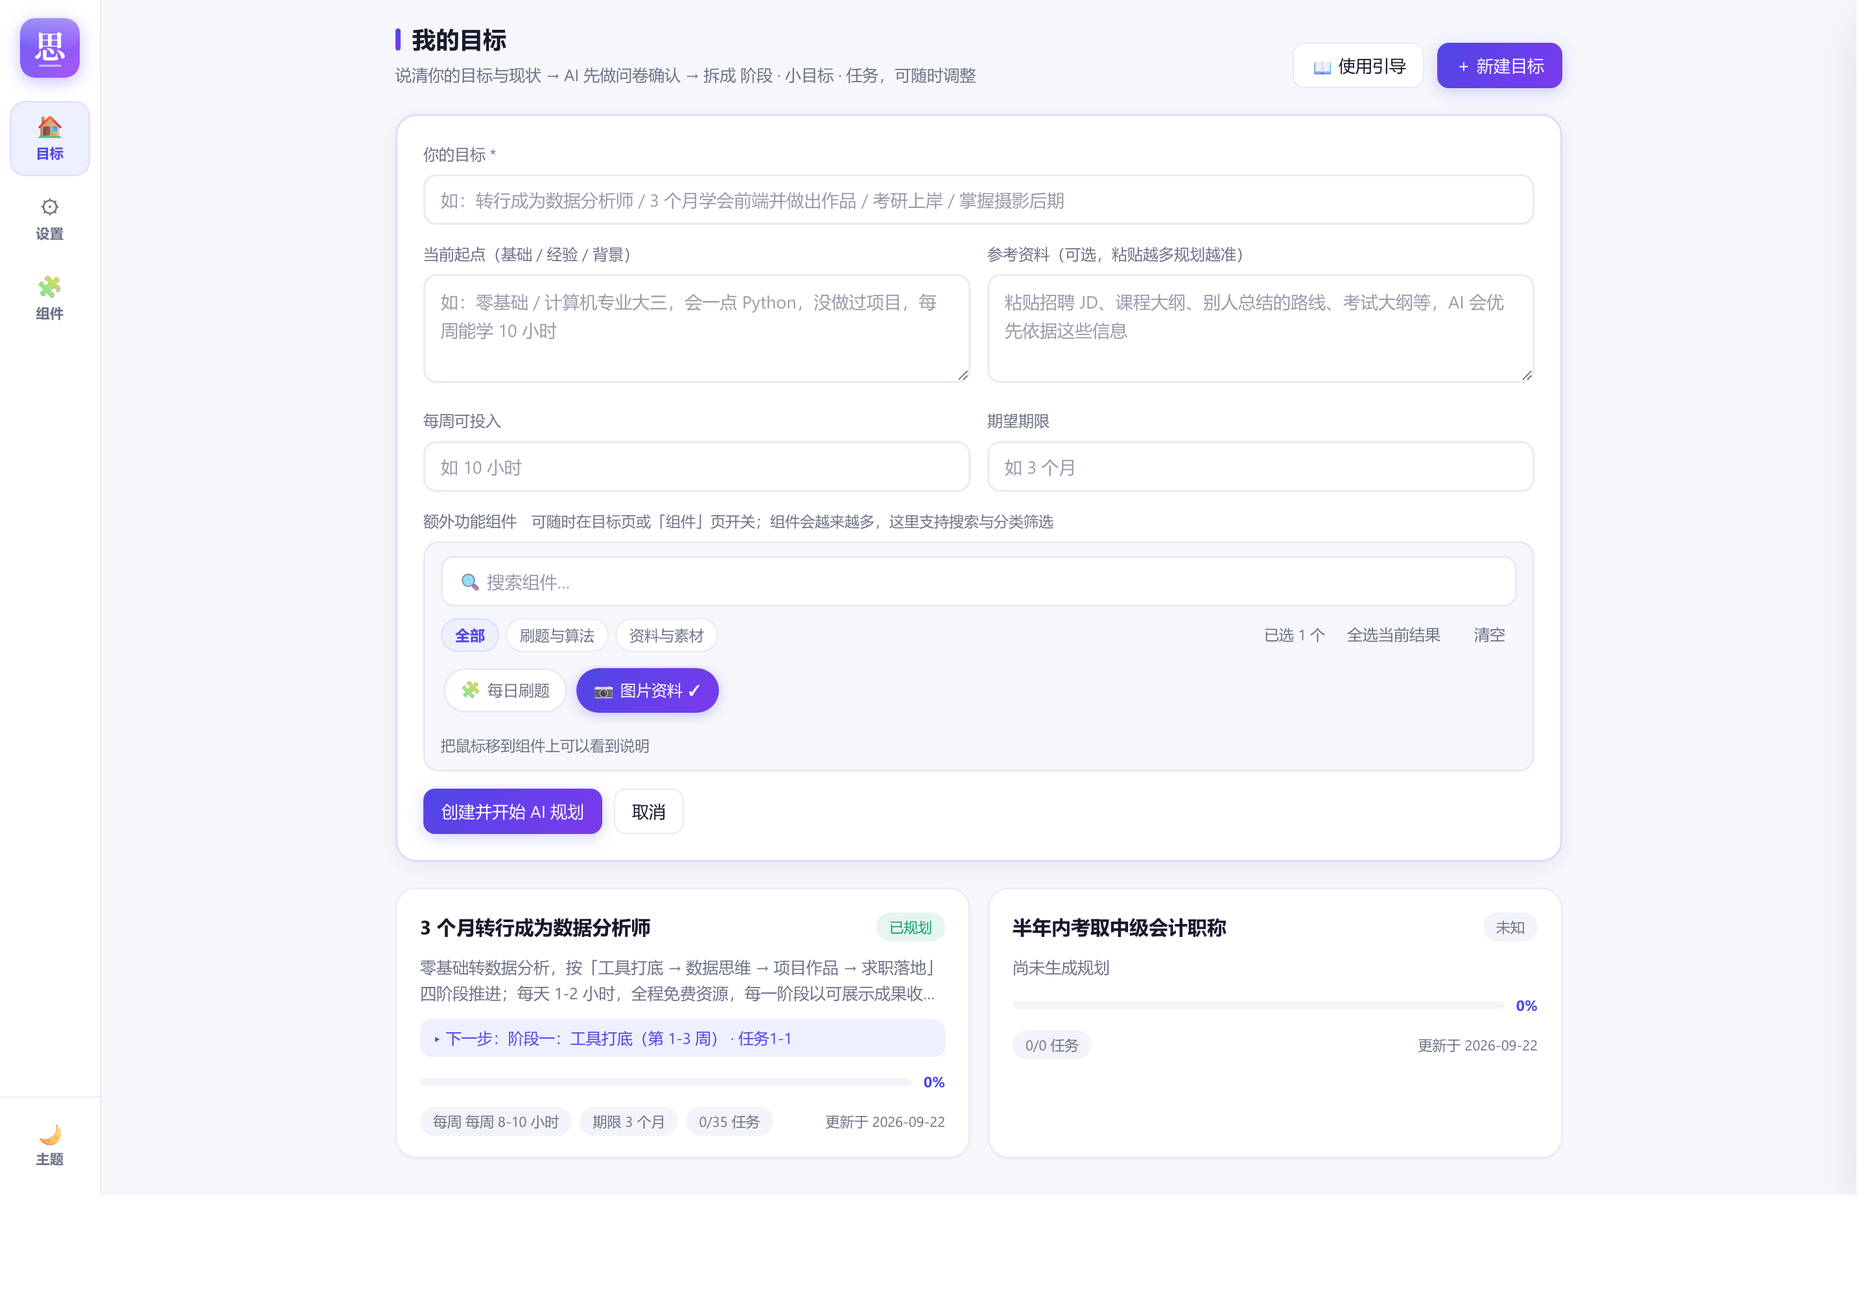
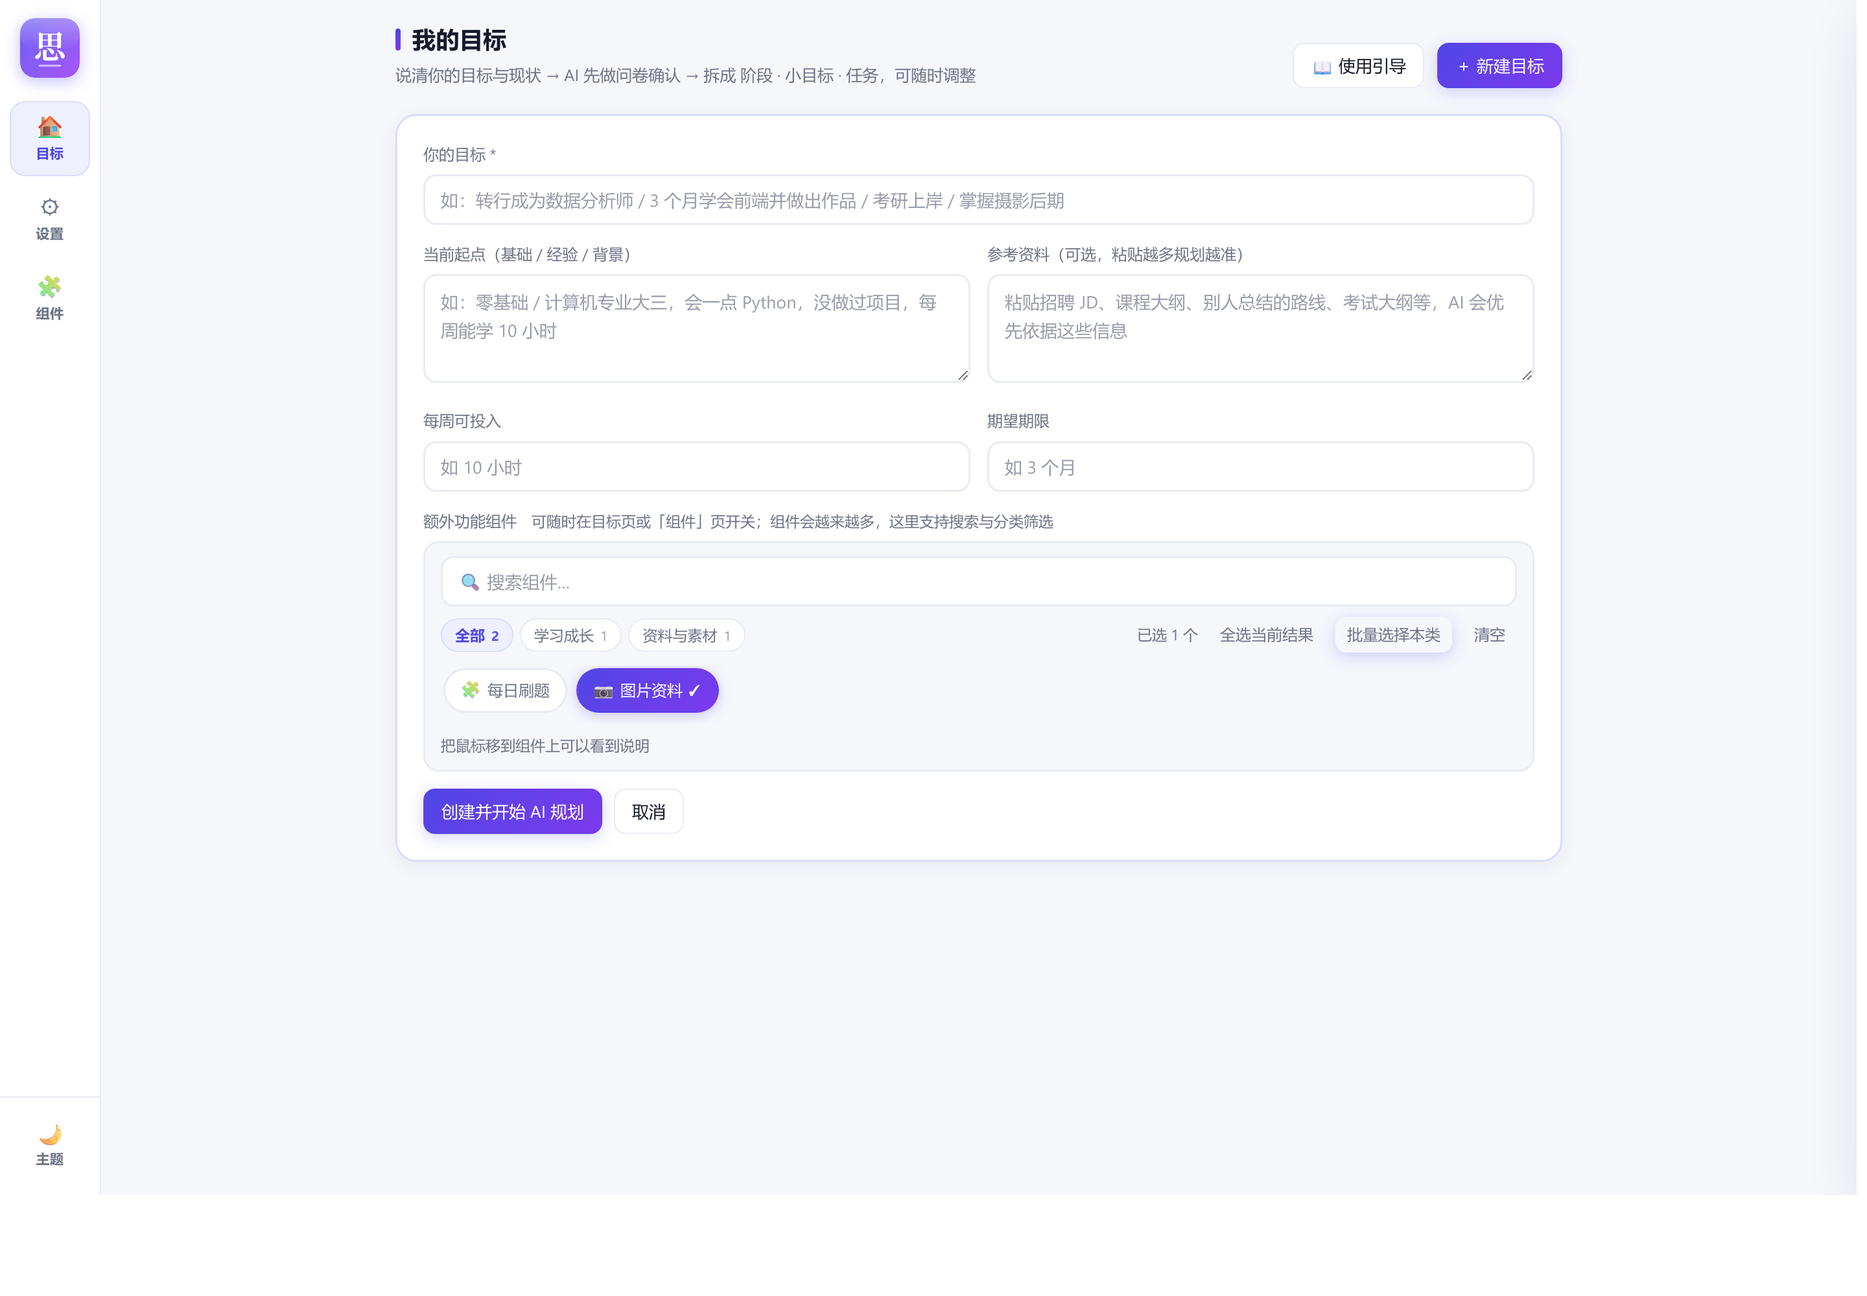
组件分类可由用户自管：新建/重命名/删除分类、移动组件、新建目标时按分类批量选择
- 服务端：分类列表与组件归属可配置（自定义优先于插件自带分类），提供分类 CRUD 与组件移动接口
- 组件页新增「分类管理」区块（带组件数量、重命名、删除），每个组件可下拉选择所属分类
- 新建目标选择器：分类筛选带数量，新增「批量选择本类」一键勾选整类组件
- 文档与截图同步（组件页、新建目标）

diff --git a/public/app.js b/public/app.js
@@ -2722,6 +2722,7 @@ function applyComponentStyles(styles) {
 }
 async function loadComponents() {
   try {
+    state.componentCats = await api('/api/component-categories').catch(() => ({ categories: [], used: {}, map: {} }));
     const r = await api('/api/components');
     state.components = r.enabled || {};
     state.componentList = r.components || [];
@@ -2755,6 +2756,12 @@ async function renderComponentsPage() {
           ${c.author ? `<span class="cmpAuthor">by ${esc(c.author)}</span>` : ''}
         </div>
         <div class="cmpDesc">${esc(c.desc || '')}</div>
+        <div class="cmpCatRow">
+          <span class="cmpCatLabel">分类</span>
+          <select class="cmpCatSel" data-comp-cat="${esc(c.id)}">
+            ${(state.componentCats && state.componentCats.categories || []).concat(['其它']).map(k => `<option value="${esc(k)}" ${k === (c.category || '其它') ? 'selected' : ''}>${esc(k)}</option>`).join('')}
+          </select>
+        </div>
         ${c.builtin ? '' : `<div class="cmpFiles">服务端 server/plugins/${esc(c.id)}.js${c.client ? ` · 前端 public/plugins/${esc(c.id)}.js` : ''}${c.hasStyle ? ` · 样式 public/plugins/${esc(c.id)}.css` : ''}</div>`}
       </div>
       <div class="cmpOps">${extraRight || ''}${sw(c)}</div>
@@ -2767,6 +2774,15 @@ async function renderComponentsPage() {
       <div class="spacer"></div>
       <button class="btn small" id="cmpReload">↻ 重新加载</button>
       <label class="btn small primary">⬆ 导入组件<input type="file" id="cmpImport" accept=".json,application/json" hidden></label>
+    </div>
+    <div class="sec">
+      <div class="secTitle">分类管理</div>
+      <p class="hint" style="margin:0 0 10px;">分类用于整理组件，也可以在「新建目标」时<b>按分类批量选择</b>组件。可以新建/重命名/删除分类，并把任意组件移动到别的分类。</p>
+      <div class="catList" id="catList"></div>
+      <div class="consAdd" style="margin-top:10px;">
+        <input type="text" id="catNewName" placeholder="新建分类，例如：学习成长 / 效率工具 / 我的收藏">
+        <button class="btn small primary" id="catAddBtn">新建分类</button>
+      </div>
     </div>
     <div class="sec"><div class="secTitle">核心组件</div>
       <p class="hint" style="margin:0 0 8px;">应用的基础能力，无法关闭。</p>
@@ -2794,6 +2810,57 @@ async function renderComponentsPage() {
     </div>
   </div>`;
   app.innerHTML = html;
+
+  /* ---- 分类管理 ---- */
+  const catsInfo = state.componentCats || { categories: [], used: {} };
+  const cats = (catsInfo.categories || []);
+  const catListEl = document.getElementById('catList');
+  if (catListEl) {
+    catListEl.innerHTML = cats.length ? cats.map(c => `<span class="catItem">
+        <span class="catName">${esc(c)}</span><span class="catCount">${(catsInfo.used || {})[c] || 0}</span>
+        <button class="catOp" data-cat-rename="${esc(c)}" title="重命名">✎</button>
+        <button class="catOp danger" data-cat-del="${esc(c)}" title="删除（组件回到原分类）">×</button>
+      </span>`).join('') : '<span class="muted" style="font-size:12.5px;">还没有自定义分类（组件使用插件自带的分类）</span>';
+    catListEl.querySelectorAll('[data-cat-rename]').forEach(b => b.addEventListener('click', async () => {
+      const from = b.getAttribute('data-cat-rename');
+      const name = prompt('重命名分类：', from);
+      if (name == null || !name.trim() || name.trim() === from) return;
+      try {
+        await api('/api/component-categories', { method: 'PUT', headers: { 'Content-Type': 'application/json' }, body: JSON.stringify({ from, name: name.trim() }) });
+        toast('已重命名');
+        await renderComponentsPage();
+      } catch (e) { toast(e.message); }
+    }));
+    catListEl.querySelectorAll('[data-cat-del]').forEach(b => b.addEventListener('click', async () => {
+      const name = b.getAttribute('data-cat-del');
+      if (!confirm('删除分类「' + name + '」？该分类下的组件会回到它们原本的分类。')) return;
+      try {
+        await api('/api/component-categories/' + encodeURIComponent(name), { method: 'DELETE' });
+        toast('已删除分类');
+        await renderComponentsPage();
+      } catch (e) { toast(e.message); }
+    }));
+  }
+  const catAddBtn = document.getElementById('catAddBtn');
+  if (catAddBtn) catAddBtn.addEventListener('click', async () => {
+    const inp = document.getElementById('catNewName');
+    const name = (inp.value || '').trim();
+    if (!name) return toast('请输入分类名');
+    try {
+      await api('/api/component-categories', { method: 'POST', headers: { 'Content-Type': 'application/json' }, body: JSON.stringify({ name }) });
+      toast('已新建分类「' + name + '」');
+      await renderComponentsPage();
+    } catch (e) { toast(e.message); }
+  });
+  /* 组件移动分类 */
+  app.querySelectorAll('[data-comp-cat]').forEach(sel => sel.addEventListener('change', async () => {
+    const id = sel.getAttribute('data-comp-cat');
+    try {
+      await api('/api/components/' + encodeURIComponent(id) + '/category', { method: 'POST', headers: { 'Content-Type': 'application/json' }, body: JSON.stringify({ category: sel.value }) });
+      toast('已移动到「' + sel.value + '」');
+      await renderComponentsPage();
+    } catch (e) { toast(e.message); }
+  }));
 
   app.querySelectorAll('[data-cmp]').forEach(inp => inp.addEventListener('change', async () => {
     const id = inp.getAttribute('data-cmp');
@@ -3129,16 +3196,19 @@ function pluginButtonsHTML(goal) {
 function pluginPickerHTML() {
   const list = (window.SiErXing ? SiErXing.serverPlugins() : []).filter(p => p.goalToggle);
   if (!list.length) return '';
+  const catCount = {};
+  for (const p of list) { const k = p.category || '其它'; catCount[k] = (catCount[k] || 0) + 1; }
   const cats = ['全部', ...Array.from(new Set(list.map(p => p.category || '其它')))];
   return `<div class="field">
     <label>额外功能组件<span class="ppHint">　可随时在目标页或「组件」页开关；组件会越来越多，这里支持搜索与分类筛选</span></label>
     <div class="ppWrap" data-pp>
       <div class="ppBar">
         <input class="ppSearch" id="ppSearch" placeholder="🔍 搜索组件…" autocomplete="off">
-        <div class="ppCats">${cats.map((c, i) => `<button type="button" class="ppCat ${i === 0 ? 'active' : ''}" data-cat="${esc(c)}">${esc(c)}</button>`).join('')}</div>
+        <div class="ppCats">${cats.map((c, i) => `<button type="button" class="ppCat ${i === 0 ? 'active' : ''}" data-cat="${esc(c)}">${esc(c)}<span class="ppCatN">${c === '全部' ? list.length : (catCount[c] || 0)}</span></button>`).join('')}</div>
         <div class="spacer"></div>
         <span class="ppCount" id="ppCount"></span>
         <button type="button" class="btn tiny" id="ppAllFiltered">全选当前结果</button>
+        <button type="button" class="btn tiny primary" id="ppAllCat" title="把当前分类下的组件全部勾选（批量选择）">批量选择本类</button>
         <button type="button" class="btn tiny" id="ppClear">清空</button>
       </div>
       <div class="ppGrid" id="ppGrid">
@@ -3184,6 +3254,8 @@ function bindPluginPicker() {
       if (show) shown++;
     });
     if (tipEl) tipEl.textContent = shown ? (kw || cat !== '全部' ? '筛选出 ' + shown + ' 个组件' : '把鼠标移到组件上可以看到说明') : '没有匹配的组件';
+    const acb = document.getElementById('ppAllCat');
+    if (acb) acb.textContent = cat === '全部' ? '批量选择本类' : '批量选择「' + cat + '」';
   };
   chips.forEach(c => {
     const inp = c.querySelector('input');
@@ -3201,6 +3273,17 @@ function bindPluginPicker() {
   if (allBtn) allBtn.addEventListener('click', () => {
     chips.forEach(c => { if (c.style.display !== 'none') c.querySelector('input').checked = true; });
     paint();
+  });
+  const allCatBtn = document.getElementById('ppAllCat');
+  if (allCatBtn) allCatBtn.addEventListener('click', () => {
+    const catBtn = wrap.querySelector('.ppCat.active');
+    const cat = catBtn ? catBtn.getAttribute('data-cat') : '全部';
+    let n = 0;
+    chips.forEach(c => {
+      if (cat === '全部' || c.getAttribute('data-cat') === cat) { c.querySelector('input').checked = true; n++; }
+    });
+    paint();
+    toast('已批量选择「' + cat + '」下的 ' + n + ' 个组件');
   });
   const clearBtn = document.getElementById('ppClear');
   if (clearBtn) clearBtn.addEventListener('click', () => { chips.forEach(c => c.querySelector('input').checked = false); paint(); });

diff --git a/server/server.js b/server/server.js
@@ -181,6 +181,40 @@ function enabledBuiltins() {
   for (const b of BUILTIN_COMPONENTS) out[b.id] = componentOn(b.id);
   return out;
 }
+/* ===== 组件分类（用户可自建/重命名/删除，组件可移动分类） ===== */
+function componentCategoryList() {
+  const raw = safeParse(getSetting('component_categories', '[]')) || [];
+  return (Array.isArray(raw) ? raw : []).map(s => String(s).trim()).filter(Boolean);
+}
+function saveComponentCategories(list) {
+  const uniq = [];
+  for (const x of list) { const s = String(x).trim().slice(0, 24); if (s && !uniq.includes(s)) uniq.push(s); }
+  setSetting('component_categories', JSON.stringify(uniq));
+  return uniq;
+}
+function componentCategoryMap() {
+  const raw = safeParse(getSetting('component_category_map', '{}')) || {};
+  return (raw && typeof raw === 'object' && !Array.isArray(raw)) ? raw : {};
+}
+function saveComponentCategoryMap(map) { setSetting('component_category_map', JSON.stringify(map || {})); }
+/** 组件的有效分类：用户指定 > 插件声明 > 其它 */
+function effectiveCategory(id, declared) {
+  const map = componentCategoryMap();
+  const c = map[id];
+  return (c && String(c).trim()) || declared || '其它';
+}
+function allCategoriesWithUsage() {
+  const comps = allComponents();
+  const used = {};
+  for (const c of comps) {
+    if (!c.goalToggle) continue;            // 只统计可在新建目标勾选的组件
+    const k = c.category || '其它';
+    used[k] = (used[k] || 0) + 1;
+  }
+  const declared = componentCategoryList();
+  const auto = Object.keys(used).filter(k => k !== '其它' && !declared.includes(k));
+  return { categories: declared.concat(auto), used };
+}
 function allComponents() {
   const list = BUILTIN_COMPONENTS.map(b => ({ ...b, builtin: true, removable: b.scope !== 'core', client: b.client || '', kind: 'feature' }));
   for (const p of FILE_PLUGINS) {
@@ -189,7 +223,7 @@ function allComponents() {
     try { hasStyle = fs.existsSync(path.join(PUBLIC_DIR, 'plugins', p.id + '.css')); } catch (e) {}
     list.push({
       id: p.id, name: p.name || p.id, icon: p.icon || '✨', desc: p.desc || '',
-      category: p.category || (kind === 'theme' ? '外观主题' : '其它'),
+      category: effectiveCategory(p.id, p.category || (kind === 'theme' ? '外观主题' : '其它')),
       scope: p.scope || (kind === 'theme' ? 'theme' : 'extra'), order: p.order || 100,
       defaultEnabled: !!p.defaultEnabled, goalToggle: p.goalToggle !== false,
       version: p.version || '1.0.0', author: p.author || '',
@@ -2296,6 +2330,59 @@ async function handleAPI(req, res, u) {
       backup();
       return sendJSON(res, 200, { goal: getGoal(n.goal_id) });
     }
+  }
+
+  if (p === '/api/component-categories' && method === 'GET') {
+    const { categories, used } = allCategoriesWithUsage();
+    return sendJSON(res, 200, { categories, used, map: componentCategoryMap() });
+  }
+  if (p === '/api/component-categories' && method === 'POST') {
+    const body = await readBody(req);
+    const name = String(body.name || '').trim().slice(0, 24);
+    if (!name) return sendJSON(res, 400, { error: '分类名不能为空' });
+    const list = componentCategoryList();
+    if (list.includes(name)) return sendJSON(res, 400, { error: '该分类已存在' });
+    list.push(name);
+    saveComponentCategories(list);
+    return sendJSON(res, 201, { ok: true, categories: allCategoriesWithUsage().categories });
+  }
+  if (p === '/api/component-categories' && method === 'PUT') {
+    const body = await readBody(req);
+    const from = String(body.from || '').trim();
+    const to = String(body.name || '').trim().slice(0, 24);
+    if (!from || !to) return sendJSON(res, 400, { error: '参数不完整' });
+    const list = componentCategoryList();
+    const idx = list.indexOf(from);
+    if (idx >= 0) list[idx] = to; else list.push(to);
+    saveComponentCategories(list);
+    const map = componentCategoryMap();
+    for (const k of Object.keys(map)) if (String(map[k]) === from) map[k] = to;
+    saveComponentCategoryMap(map);
+    return sendJSON(res, 200, { ok: true, categories: allCategoriesWithUsage().categories });
+  }
+  const catDelMatch = p.match(/^\/api\/component-categories\/(.+)$/);
+  if (catDelMatch && method === 'DELETE') {
+    const name = decodeURIComponent(catDelMatch[1]).trim();
+    saveComponentCategories(componentCategoryList().filter(x => x !== name));
+    const map = componentCategoryMap();
+    for (const k of Object.keys(map)) if (String(map[k]) === name) delete map[k];   // 组件回落到插件自带分类
+    saveComponentCategoryMap(map);
+    return sendJSON(res, 200, { ok: true, categories: allCategoriesWithUsage().categories });
+  }
+  const compCatMatch = p.match(/^\/api\/components\/([a-z0-9_-]+)\/category$/i);
+  if (compCatMatch && method === 'POST') {
+    const cid = String(compCatMatch[1]);
+    const comp = allComponents().find(c => c.id === cid);
+    if (!comp) return sendJSON(res, 404, { error: '组件不存在' });
+    const body = await readBody(req);
+    const category = String(body.category || '').trim().slice(0, 24) || '其它';
+    const map = componentCategoryMap();
+    if (category === '其它') delete map[cid]; else map[cid] = category;
+    if (category !== '其它' && !componentCategoryList().includes(category)) {
+      const list = componentCategoryList(); list.push(category); saveComponentCategories(list);
+    }
+    saveComponentCategoryMap(map);
+    return sendJSON(res, 200, { ok: true, category: effectiveCategory(cid, comp.category) });
   }
 
   if (p === '/api/service/status' && method === 'GET') {

diff --git a/public/style.css b/public/style.css
@@ -1238,3 +1238,28 @@ body{padding-left:78px;}
 .svcVal{font-size:13px;}
 .svcVal code{background:var(--soft); border:1px solid var(--border); border-radius:6px; padding:1px 7px; font-size:12.5px;}
 .svcRow .spacer{flex:1;}
+
+/* ============ 组件分类管理 ============ */
+.catList{display:flex; flex-wrap:wrap; gap:8px;}
+.catItem{
+  display:inline-flex; align-items:center; gap:6px; padding:5px 8px 5px 12px;
+  border:1.5px solid var(--border); border-radius:20px; background:var(--card); font-size:12.8px;
+}
+.catItem:hover{border-color:var(--accent-border);}
+.catName{font-weight:600;}
+.catCount{font-size:11px; color:var(--muted); background:var(--soft); border-radius:10px; padding:0 6px;}
+.catOp{
+  border:none; background:none; color:var(--muted); cursor:pointer; font-size:12.5px; line-height:1;
+  padding:2px 4px; border-radius:6px; font-family:inherit;
+}
+.catOp:hover{background:var(--soft); color:var(--accent);}
+.catOp.danger:hover{color:var(--danger);}
+.cmpCatRow{display:flex; align-items:center; gap:8px; margin-top:7px;}
+.cmpCatLabel{font-size:11.5px; color:var(--muted);}
+.cmpCatSel{
+  border:1px solid var(--border); background:var(--card); color:var(--text); border-radius:8px;
+  padding:3px 8px; font-size:12px; font-family:inherit; cursor:pointer; max-width:200px;
+}
+.cmpCatSel:focus{outline:none; border-color:var(--accent);}
+.ppCatN{margin-left:5px; font-size:10.5px; opacity:.7;}
+.ppCat.active .ppCatN{opacity:.9;}

diff --git a/README.md b/README.md
@@ -134,9 +134,11 @@
 | 核心组件 | 路线图与规划（应用基础，不可关闭） |
 | 基础功能组件 | 规划前问卷 / 规划约束 / 信息源检索 / 版本对比与汇报 / 对话改规划 / 学习教程 —— **默认开启，可一键关掉**（界面入口与接口一并隐藏） |
 | 主题与界面样式 | 主题组件通过覆盖设计变量换肤，**同时只生效一个**；内置「碳黑」「宣纸」两个示例 |
-| 扩展组件 | 每日刷题、图片资料等独立文件组件：可**按目标启用**、可**导出分享**、可卸载 |
+| 扩展组件 | 每日刷题、图片资料等独立文件组件：可**按目标启用**、可**导出分享**、可卸载；可**移动到自定义分类** |
+| 分类管理 | 自建 / 重命名 / 删除分类；分类会体现在新建目标的选择器里，支持**按分类批量选择** |
 
-- **新建目标时的组件选择器**：芯片式多选 + **搜索** + **分类筛选** + 全选当前结果，按「未来上百个组件」的规模设计；每个组件悬停可看说明，右上角显示已选数量
+- **组件分类可自管**：在「组件」页可**新建 / 重命名 / 删除分类**，并把任意组件**移动到指定分类**（自定义分类优先于插件自带分类）
+- **新建目标时的组件选择器**：芯片式多选 + **搜索** + **分类筛选（带数量）** + 「全选当前结果」+「**批量选择本类**」（按分类一键勾选整类组件），按「未来上百个组件」的规模设计；每个组件悬停可看说明，右上角显示已选数量
 - **分享组件**：点「导出」得到 `*.component.json`（含服务端代码 + 前端代码 + 样式），对方在「组件」页「导入组件」即可安装并立即生效（`examples/dailyquote.component.json` 是一个完整示例）
 - **组件能力**：服务端（建表 / 接口 / 目标删除清理 / 导出导入钩子）+ 前端（左侧栏入口 / 页面路由 / 渲染）+ 样式（自带 CSS）
 - 细节见 [九、插件开发（功能扩展）](#九插件开发功能扩展)
@@ -453,7 +455,7 @@ module.exports = {
   icon: '✨',
   desc: '一句话说明，会显示在新建目标的选择列表里',
   order: 50,                   // 左侧栏排序
-  category: '效率工具',        // 分类（新建目标的选择器里用于筛选）
+  category: '效率工具',        // 默认分类（用户可在「组件」页把它移到自定义分类，并可按分类批量选择）
   goalToggle: true,            // 是否允许在新建目标时勾选
   defaultEnabled: false,       // 新建目标时默认是否勾选
   client: '/plugins/hello.js', // 前端脚本（不写则不显示界面入口）
